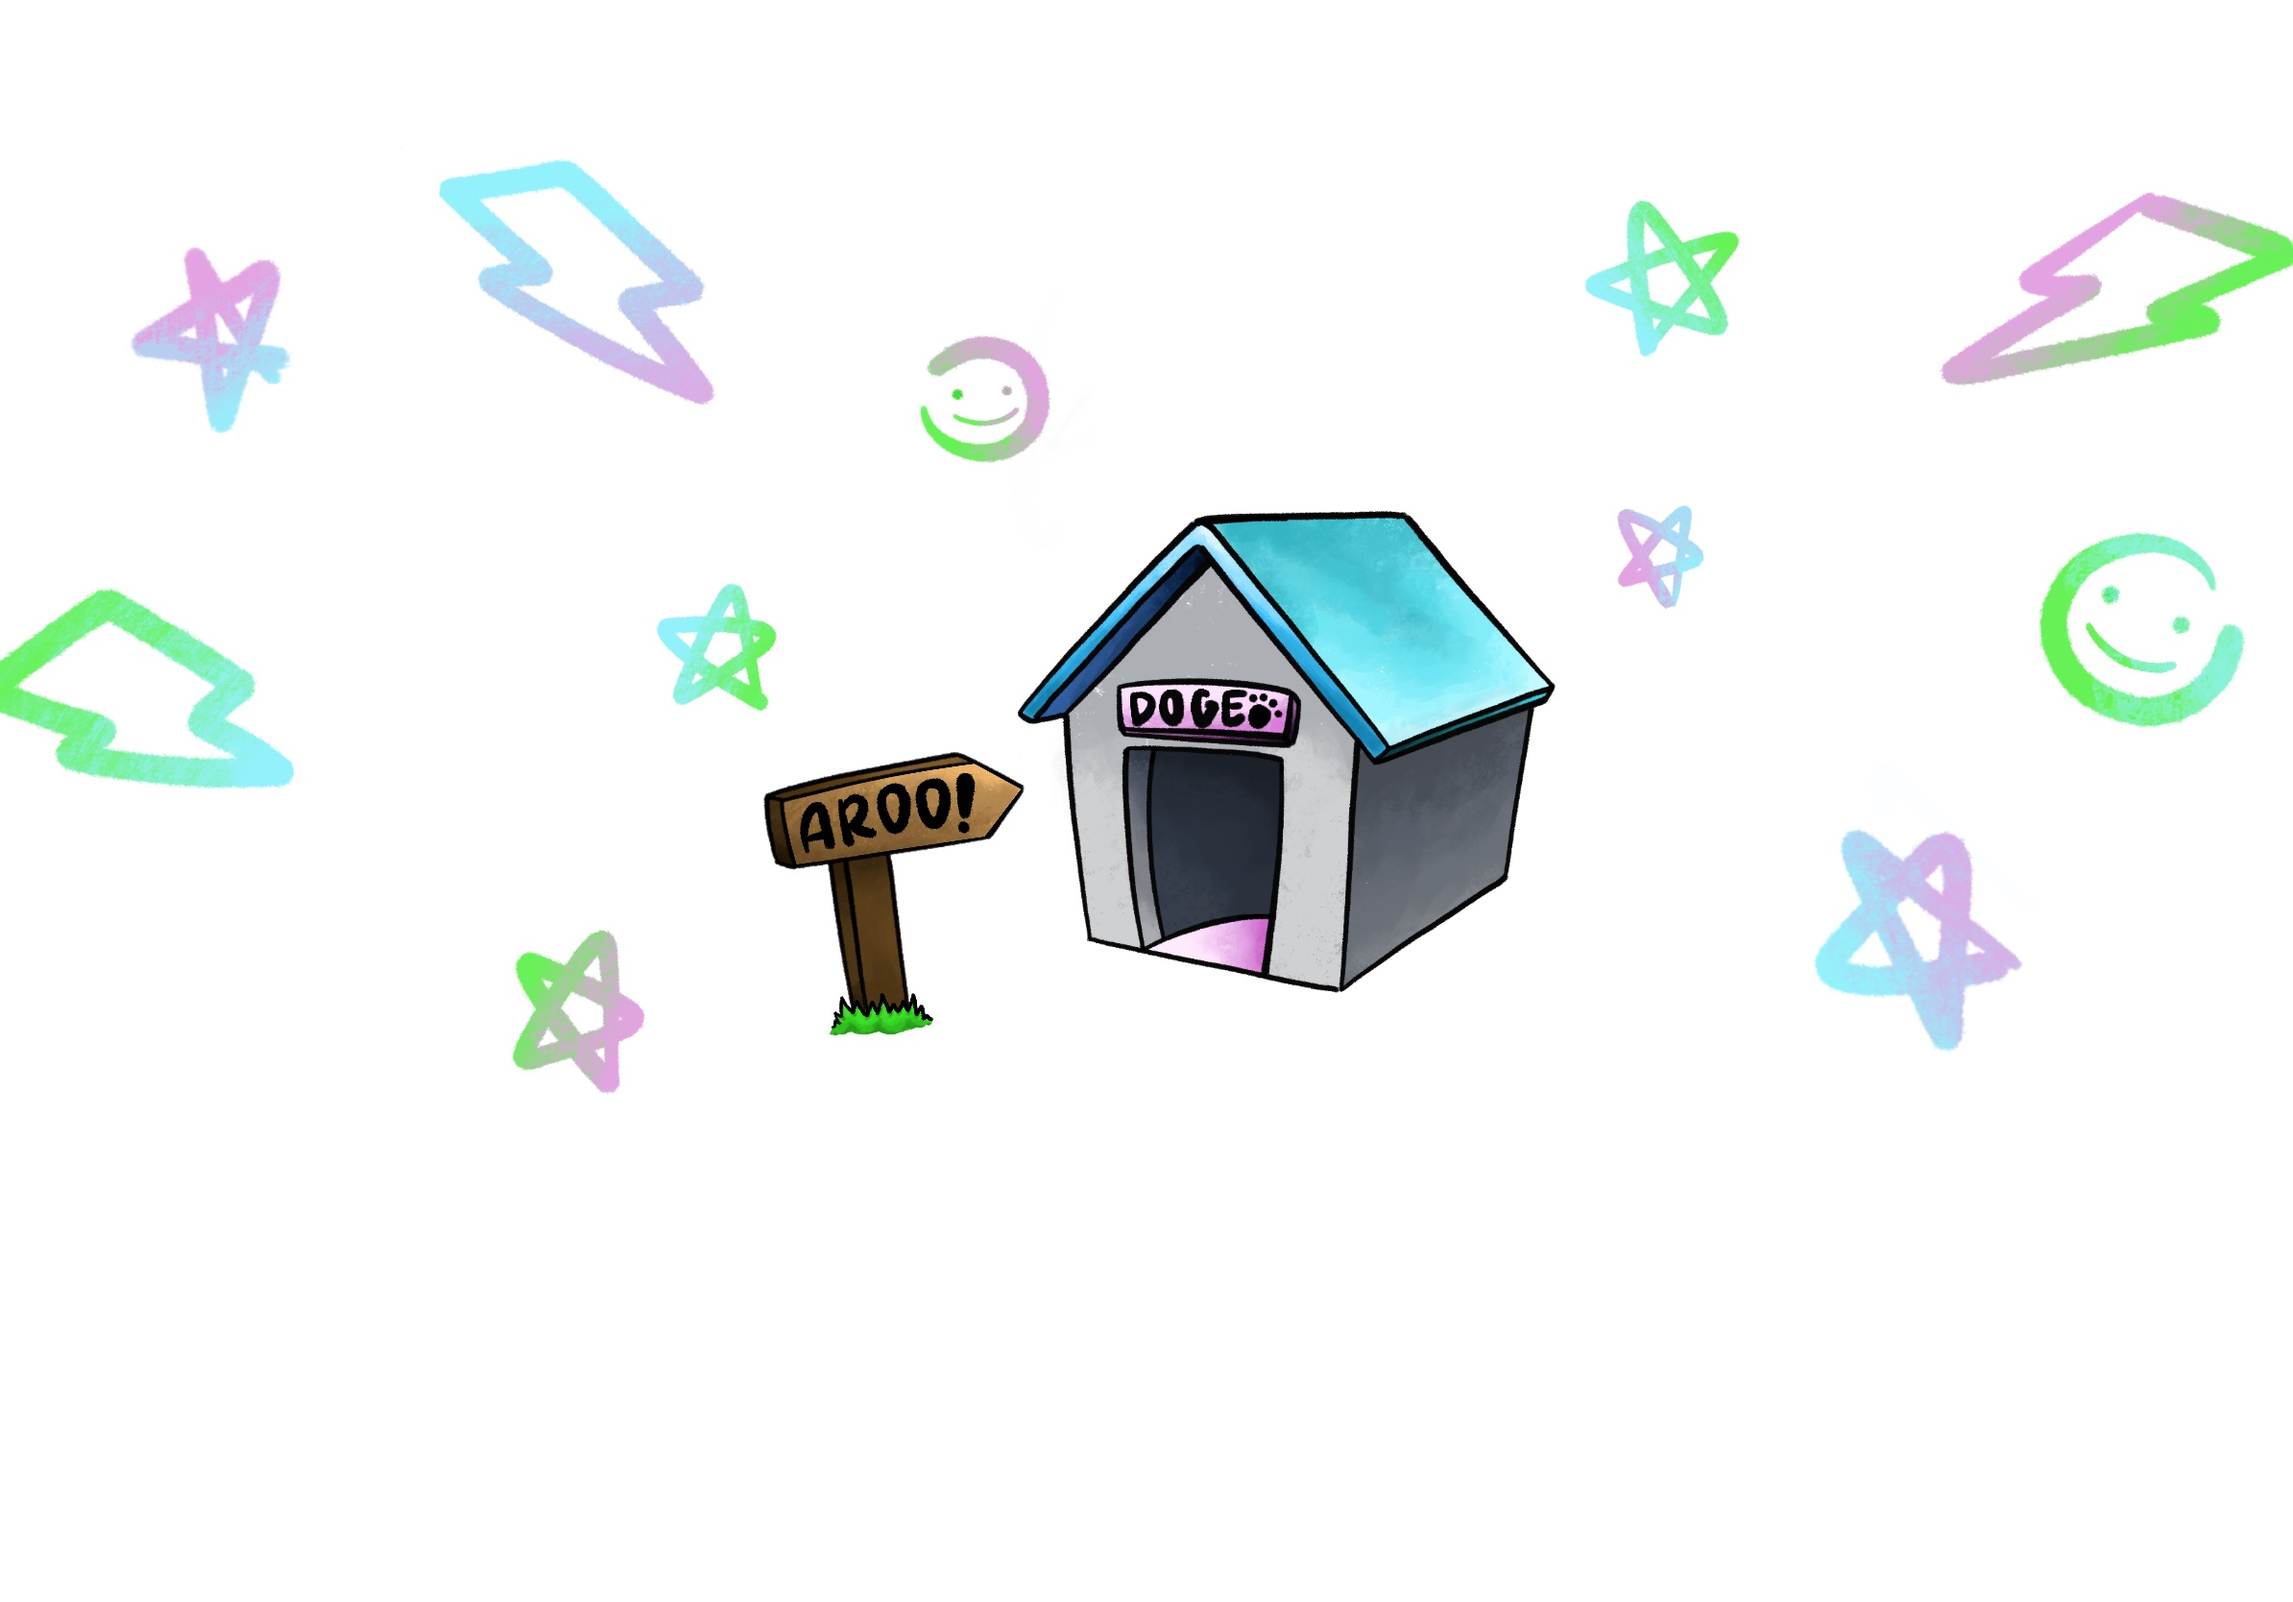
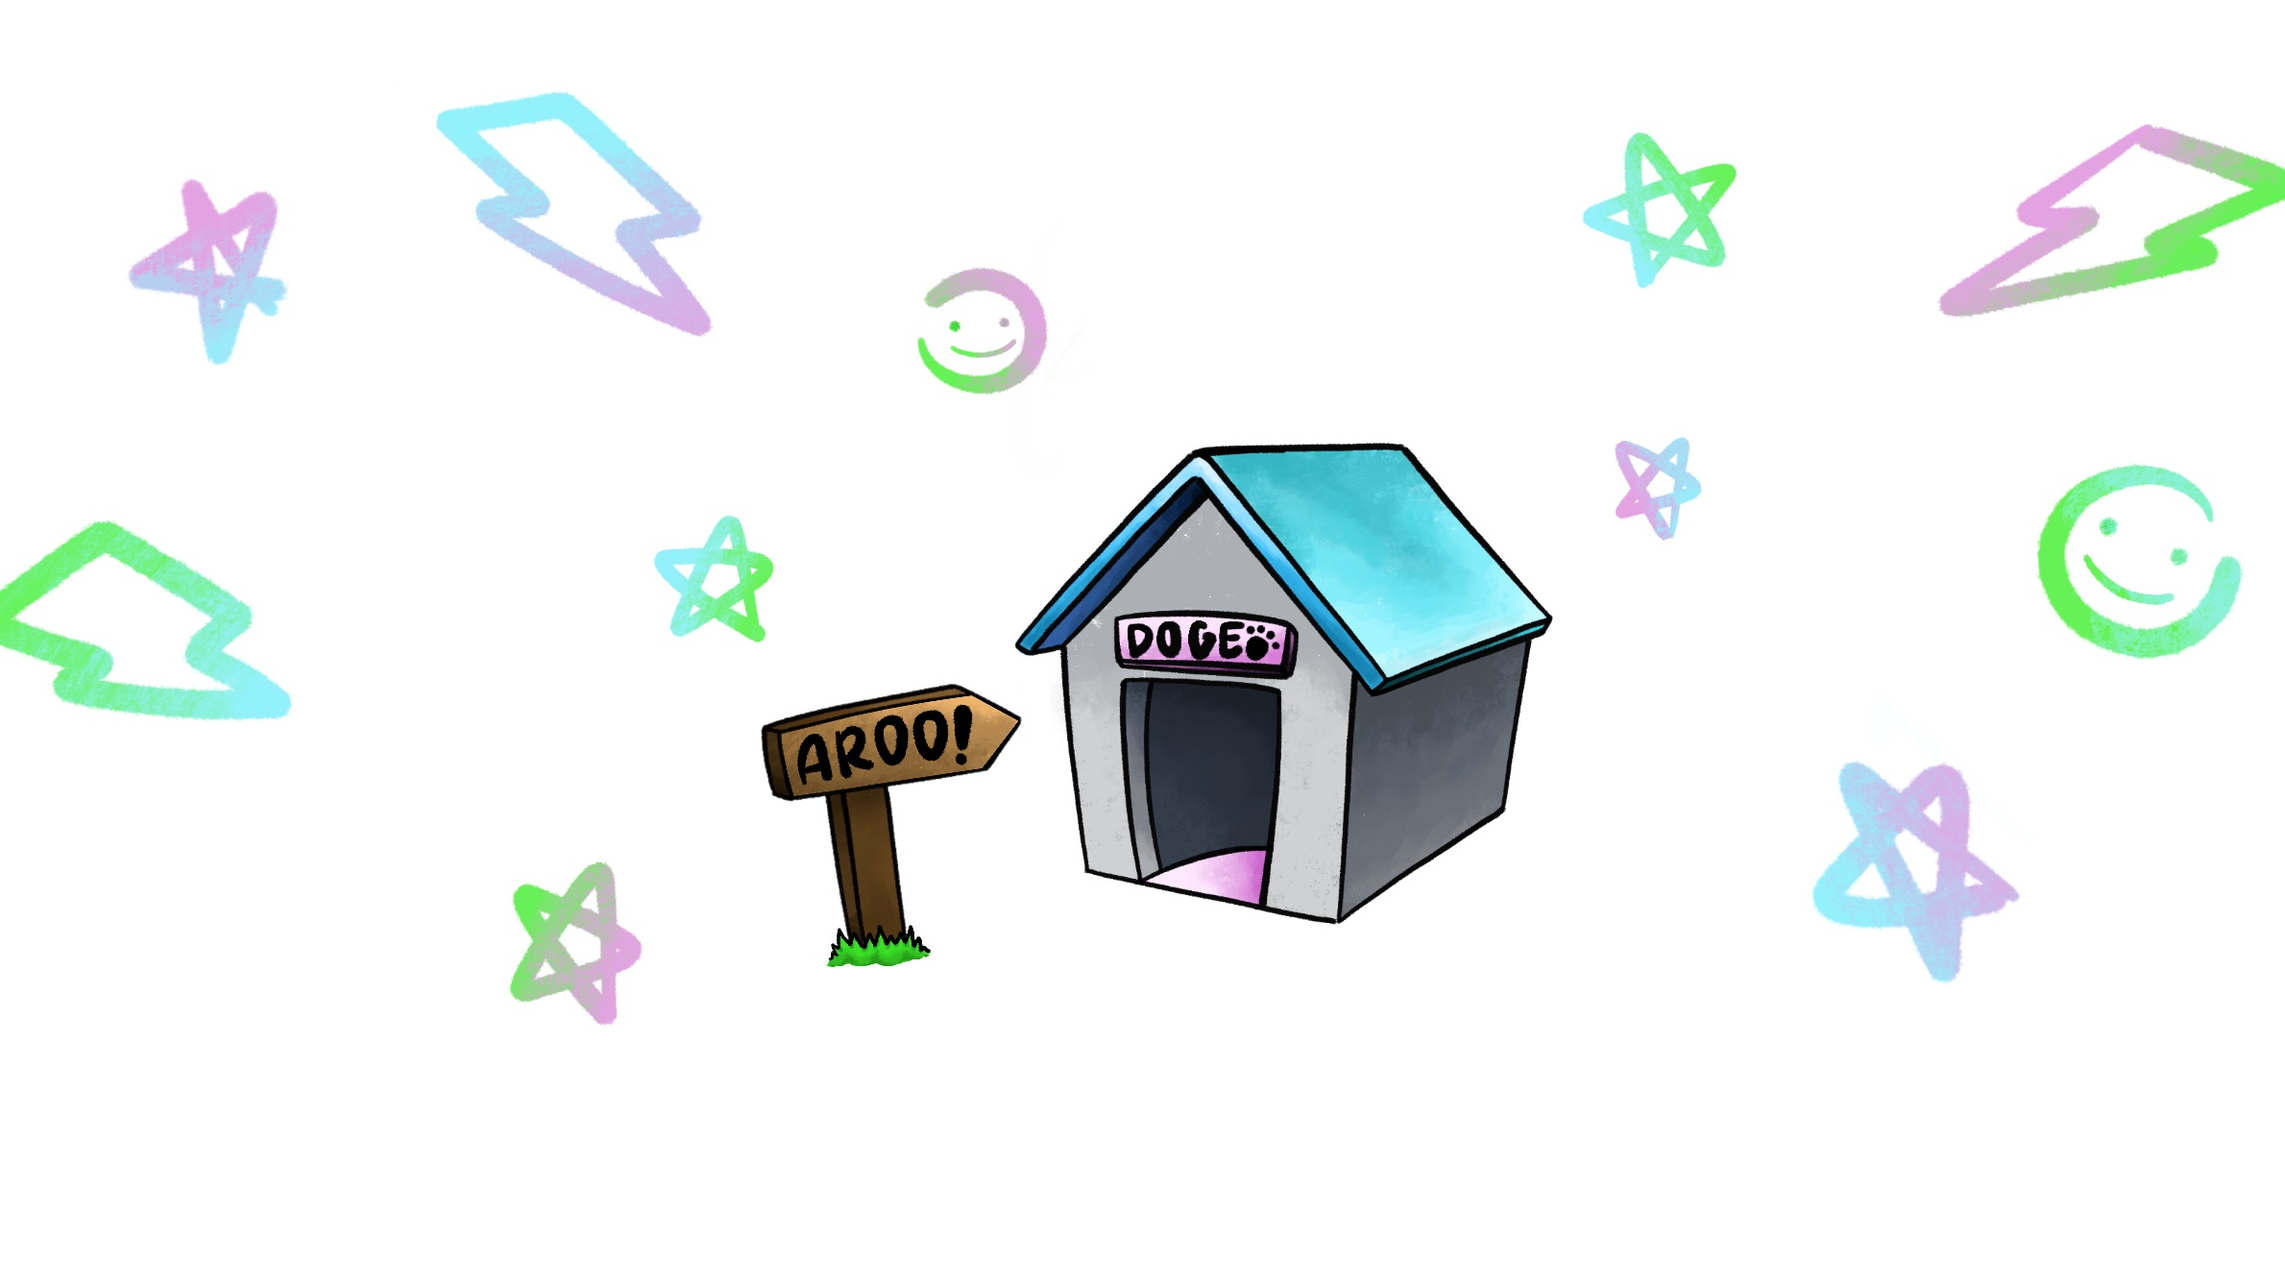
set background position 16:9

diff --git a/src/App.tsx b/src/App.tsx
@@ -20,9 +20,10 @@ const Body = styled.div`
   height: 100vh;
   margin: auto auto auto auto;
   flex: 1;
-  background-size: cover;
+  background-size: contain;
   background-image: url(${CyberDoge_Background});
   background-repeat: no-repeat;
+  background-position: center;
 `;
 
 const FloatingContainer = styled.div`
